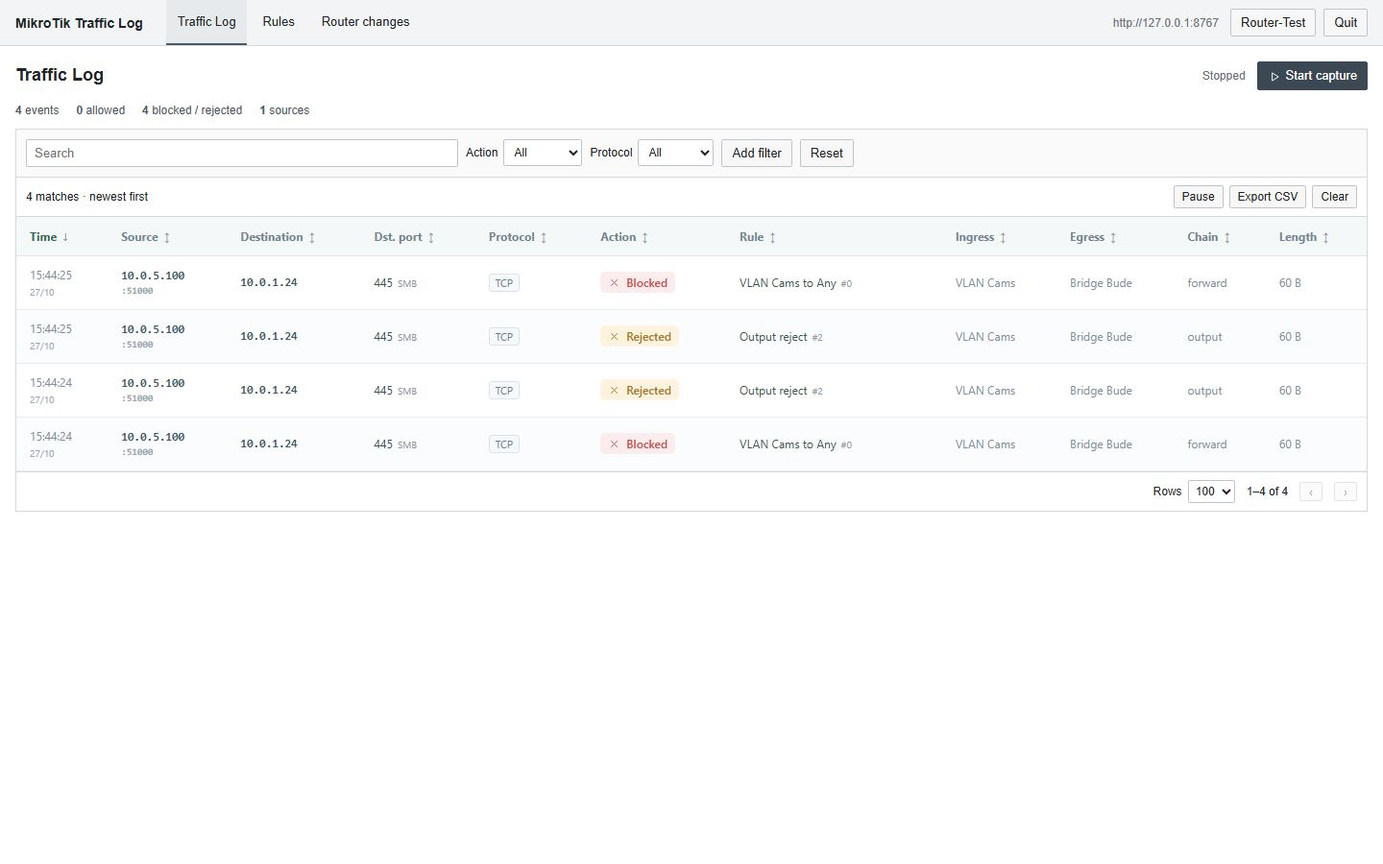
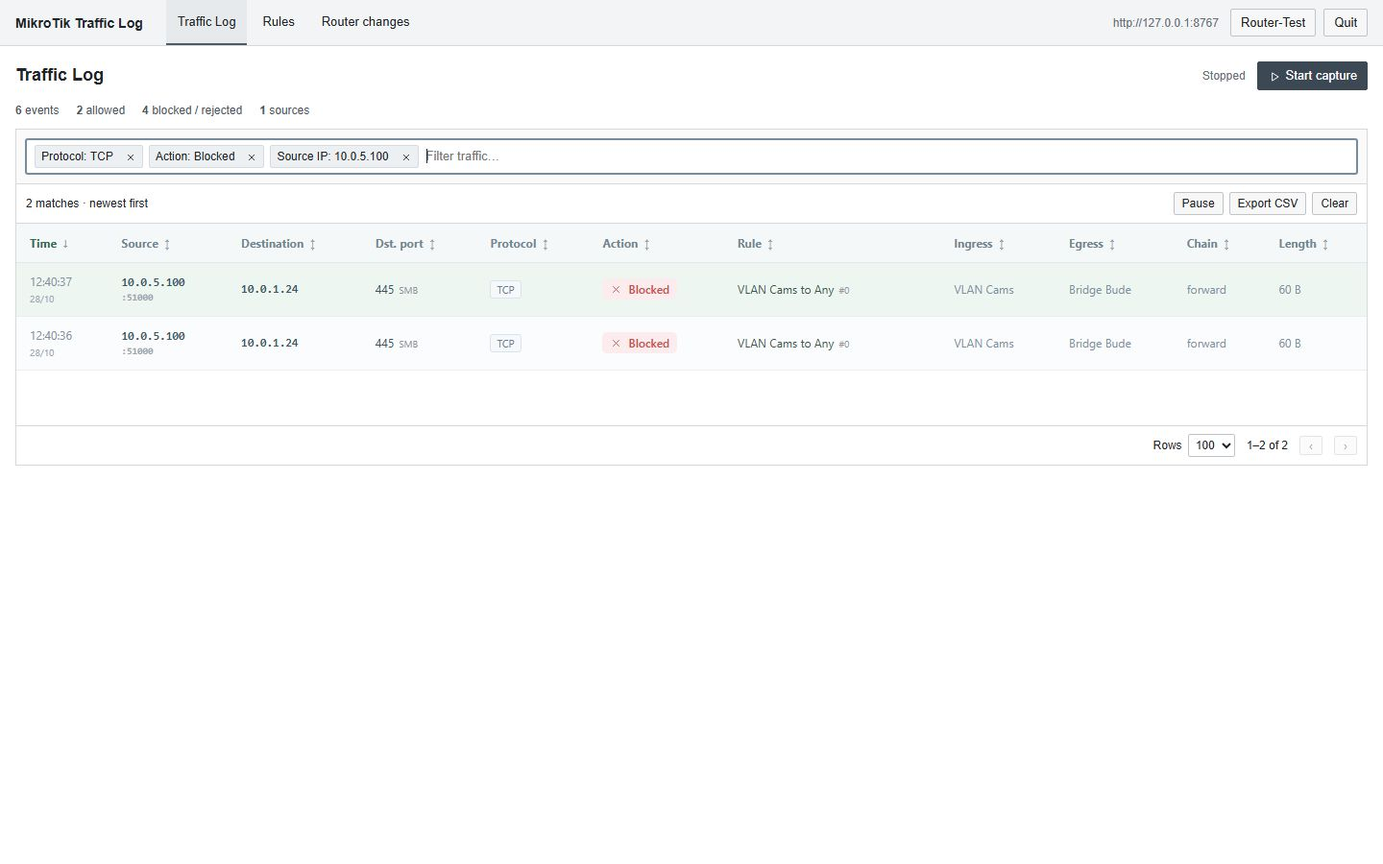
Restore unified traffic filters and clarify rule selection

diff --git a/trafficlog/web/app.js b/trafficlog/web/app.js
@@ -1,13 +1,12 @@
-"use strict";
+import {actions,fields,ipNumber,compileFilter,normalizeFilterValue,formatFilterValue,parseFilterInput} from "./filters.mjs";
 
 const $ = (id) => document.getElementById(id);
 const esc = (value) => String(value ?? "").replace(/[&<>"']/g, c => ({"&":"&amp;","<":"&lt;",">":"&gt;",'"':"&quot;","'":"&#39;"}[c]));
 const icon = name => `<svg aria-hidden="true"><use href="#i-${name}"/></svg>`;
-const actions = {accept:"Allowed", drop:"Blocked", reject:"Rejected"};
 const services = {20:"FTP",21:"FTP",22:"SSH",25:"SMTP",53:"DNS",67:"DHCP",68:"DHCP",80:"HTTP",123:"NTP",161:"SNMP",179:"BGP",443:"HTTPS",445:"SMB",3389:"RDP",8000:"HTTP",8291:"WinBox"};
-const fields = {source:"Source IP",destination:"Destination IP",destination_port:"Dst. port",source_port:"Source port",rule_name:"Rule",input:"Ingress",output:"Egress",chain:"Chain"};
-const state = {token:"",router:null,rules:[],knownRules:new Set(),selected:new Set(),events:[],sequence:0,session:null,view:"traffic",filters:[],search:"",action:"",protocol:"",sort:"received",descending:true,page:0,pageSize:100,paused:false,pausedEvents:null,detail:null,closed:false,lastRuleSignature:""};
+const state = {token:"",router:null,rules:[],knownRules:new Set(),selected:new Set(),events:[],sequence:0,session:null,view:"traffic",filters:[],search:"",sort:"received",descending:true,page:0,pageSize:100,paused:false,pausedEvents:null,detail:null,closed:false,lastRuleSignature:""};
 let toastTimer, pollBusy = false, previewVersion = 0, previewPlan = null;
+let suggestions=[], activeSuggestion=-1, editingFilter=null;
 
 function toast(message) {
   $("toast").textContent = message;
@@ -49,7 +48,8 @@ function consume(data) {
   if (key !== oldKey) {
     state.selected.clear(); state.knownRules.clear(); state.events = []; state.detail = null;
     $("detail-drawer").classList.add("hidden");
-    state.filters = []; state.page = 0; setPaused(false);
+    if(oldKey){state.filters=[];state.search="";$("search").value="";editingFilter=null;closeSuggestions();}
+    state.page=0;setPaused(false);
   }
   state.router = data.router; state.session = data.session;
   state.rules = data.rules || [];
@@ -118,46 +118,11 @@ function renderStatus() {
   $("pause-button").disabled = !state.events.length;
 }
 
-function ipNumber(ip) {
-  const parts = ip.split(".");
-  if (parts.length !== 4 || parts.some(p => !/^\d{1,3}$/.test(p) || Number(p)>255)) throw new Error("Enter a valid IPv4 address or CIDR network.");
-  return parts.reduce((n,p) => (n * 256 + Number(p)) >>> 0, 0);
-}
-
-function compileFilter(field, value) {
-  const values = value.split(",").map(s => s.trim()).filter(Boolean);
-  if (!values.length) throw new Error("Enter a filter value.");
-  if (field === "source" || field === "destination") {
-    const nets = values.map(v => {
-      const parts = v.split("/");
-      if (parts.length>2 || (parts.length===2 && !/^\d+$/.test(parts[1]))) throw new Error("Invalid IPv4 network.");
-      const bits = parts.length===2 ? Number(parts[1]) : 32;
-      if (bits<0 || bits>32) throw new Error("Prefix length must be between /0 and /32.");
-      const mask = bits===0 ? 0 : (0xffffffff << (32-bits)) >>> 0;
-      return {network:(ipNumber(parts[0]) & mask) >>> 0,mask};
-    });
-    return e => nets.some(n => { try {return ((ipNumber(e[field]) & n.mask) >>> 0) === n.network;} catch {return false;} });
-  }
-  if (field.endsWith("_port")) {
-    const ranges = values.map(v => {
-      if (!/^\d+(?:-\d+)?$/.test(v)) throw new Error("Enter a port, range or comma-separated list.");
-      const [a,b] = v.split("-").map(Number), end = b ?? a;
-      if (a<0 || end>65535 || end<a) throw new Error("Port range must be between 0 and 65535.");
-      return [a,end];
-    });
-    return e => e[field] != null && ranges.some(([a,b]) => Number(e[field])>=a && Number(e[field])<=b);
-  }
-  return e => values.some(v => String(e[field] || "").toLocaleLowerCase().includes(v.toLocaleLowerCase()));
-}
-
 function filteredEvents() {
-  const search = state.search.trim().toLowerCase();
-  const events = state.paused ? state.pausedEvents : state.events;
-  const predicates = state.filters.map(f => compileFilter(f.field, f.value));
-  const result = events.filter(e => (!state.action || e.action===state.action)
-    && (!state.protocol || e.protocol===state.protocol)
-    && predicates.every(test => test(e))
-    && (!search || [e.source,e.destination,e.source_port,e.destination_port,e.rule_name,e.protocol,e.input,e.output,e.chain,actions[e.action]].join(" ").toLowerCase().includes(search)));
+  const events=state.paused?state.pausedEvents:state.events;
+  const predicates=state.filters.map(f=>compileFilter(f.field,f.value));
+  if(state.search.trim())predicates.push(compileFilter("text",state.search));
+  const result=events.filter(e=>predicates.every(test=>test(e)));
   result.sort((a,b) => {
     let av=a[state.sort] ?? "",bv=b[state.sort] ?? "", comparison;
     if (["source","destination"].includes(state.sort)) {try {av=ipNumber(av);bv=ipNumber(bv);} catch {}}
@@ -186,7 +151,7 @@ function renderTraffic() {
   const rows = filteredEvents();
   state.page = Math.min(state.page, Math.max(0, Math.ceil(rows.length/state.pageSize)-1));
   const start = state.page*state.pageSize, page = rows.slice(start,start+state.pageSize);
-  $("traffic-body").innerHTML = page.map(e => `<tr data-event="${e.sequence}" class="${state.detail?.sequence===e.sequence ? "selected" : ""}" tabindex="0" aria-label="Event ${esc(e.source)} nach ${esc(e.destination)}">
+  $("traffic-body").innerHTML = page.map(e => `<tr data-event="${e.sequence}" class="${state.detail?.sequence===e.sequence ? "selected" : ""}" tabindex="0" aria-label="Event ${esc(e.source)} to ${esc(e.destination)}">
     <td class="time" title="Received: ${esc(e.received)}">${displayTime(e)}<span class="subline">${esc(new Date(e.received).toLocaleDateString("en-GB", {day:"2-digit",month:"2-digit"}))}</span></td>
     <td class="ip"><button class="cell-link" data-filter-field="source" data-value="${esc(e.source)}">${esc(e.source)}</button><span class="subline">${e.source_port ? ":"+e.source_port : "—"}</span></td>
     <td class="ip"><button class="cell-link" data-filter-field="destination" data-value="${esc(e.destination)}">${esc(e.destination)}</button></td>
@@ -207,23 +172,23 @@ function renderTraffic() {
   $("previous-page").disabled = state.page===0;
   $("next-page").disabled = start+state.pageSize >= rows.length;
   $("filter-chips").classList.toggle("hidden", !state.filters.length);
-  $("filter-chips").innerHTML = state.filters.map((f,i) => `<span class="filter-chip">${esc(fields[f.field])}: <strong>${esc(f.value)}</strong><button data-remove-filter="${i}" aria-label="Remove filter">${icon("x")}</button></span>`).join("");
+  $("filter-chips").innerHTML=state.filters.map(renderFilterChip).join("");
   document.querySelectorAll("th[data-sort]").forEach(th => {
     th.classList.toggle("sorted", th.dataset.sort===state.sort);
     th.querySelector("span").textContent = th.dataset.sort===state.sort ? (state.descending ? "↓" : "↑") : "↕";
   });
 }
 
-function addFilter(field, value) {
-  compileFilter(field,value);
-  if (!state.filters.some(f => f.field===field && f.value===value)) state.filters.push({field,value});
-  state.page=0; renderTraffic();
+function addFilter(field,value,index=null) {
+  value=normalizeFilterValue(field,value);compileFilter(field,value);
+  const filter={field,value};
+  if(index!==null)state.filters.splice(index,1);
+  if(!state.filters.some(f=>f.field===field&&f.value===value))state.filters.push(filter);
+  state.page=0;renderTraffic();
 }
 
 function resetFilters() {
-  state.filters=[]; state.search=""; state.action=""; state.protocol=""; state.page=0;
-  $("search").value=""; $("action-filter").value=""; $("protocol-filter").value="";
-  renderTraffic();
+  state.filters=[];state.page=0;cancelFilterInput();
 }
 
 function renderRules() {
@@ -255,15 +220,85 @@ function openDetails(event) {
   $("detail-drawer").classList.remove("hidden");
 }
 
-function updateFilterEditor() {
-  const field=$("filter-field").value;
-  const ips = ["source","destination"].includes(field), ports=field.endsWith("_port");
-  $("filter-value").placeholder = ips ? "10.0.1.24 or 10.0.1.0/24" : ports ? "443 or 80,443 or 8000-8100" : "Enter or select a value";
-  $("filter-help").textContent = ips ? "IPv4/CIDR · comma-separated" : ports ? "80,443 · 8000-8100" : "";
-  const values = [...new Set(state.events.map(e=>e[field]).filter(v=>v!==null && v!==undefined && v!==""))].slice(0,150);
-  $("filter-values").innerHTML = values.map(v=>`<option value="${esc(v)}"></option>`).join("");
+function renderFilterChip(filter,index){
+  return '<span class="filter-chip'+(editingFilter===index?' editing':'')+'"><button type="button" data-edit-filter="'+index+'">'+esc(fields[filter.field])+': <strong>'+esc(formatFilterValue(filter.field,filter.value))+'</strong></button><button type="button" data-remove-filter="'+index+'" aria-label="Remove '+esc(fields[filter.field])+' filter">'+icon("x")+'</button></span>';
 }
 
+function closeSuggestions(){
+  $("filter-suggestions").classList.add("hidden");
+  $("search").setAttribute("aria-expanded","false");
+  $("search").removeAttribute("aria-activedescendant");
+  activeSuggestion=-1;
+}
+
+function filterSuggestions(){
+  const input=$("search").value,parsed=parseFilterInput(input);
+  if(parsed){
+    let values=parsed.field==="action"?Object.keys(actions):parsed.field==="protocol"?["TCP","UDP","ICMP","ICMPV6"]:[];
+    values=[...new Set([...values,...state.events.map(e=>e[parsed.field]).filter(v=>v!==null&&v!==undefined&&v!=="").map(String)])];
+    const term=parsed.value.toLowerCase();
+    return values.filter(v=>v.toLowerCase().includes(term)||formatFilterValue(parsed.field,v).toLowerCase().includes(term))
+      .slice(0,12).map(value=>({type:"value",field:parsed.field,value,label:formatFilterValue(parsed.field,value)}));
+  }
+  const term=input.trim().toLowerCase();
+  const rows=Object.entries(fields).filter(([field,label])=>field!=="text"&&(!term||label.toLowerCase().includes(term)||field.includes(term)))
+    .map(([field,label])=>({type:"field",field,label}));
+  if(term)rows.push({type:"search",field:"text",value:input.trim(),label:'Search: '+input.trim()});
+  return rows;
+}
+
+function renderSuggestions(){
+  suggestions=filterSuggestions();
+  activeSuggestion=-1;
+  $("filter-suggestions").innerHTML=suggestions.map((item,index)=>'<button type="button" role="option" aria-selected="false" id="filter-option-'+index+'" data-suggestion="'+index+'">'+esc(item.label)+'</button>').join("");
+  $("filter-suggestions").classList.toggle("hidden",!suggestions.length);
+  $("search").setAttribute("aria-expanded",String(!!suggestions.length));
+  $("search").removeAttribute("aria-activedescendant");
+}
+
+function chooseSuggestion(index){
+  const item=suggestions[index];
+  if(!item)return;
+  if(item.type==="field"){
+    $("search").value=fields[item.field]+": ";
+    state.search="";
+    errorBox("filter-error","");
+    renderTraffic();renderSuggestions();$("search").focus();
+  }else commitFilter(item.field,item.value);
+}
+
+function commitFilter(field,value){
+  try{
+    addFilter(field,value,editingFilter);
+    editingFilter=null;state.search="";$("search").value="";
+    errorBox("filter-error","");closeSuggestions();renderTraffic();$("search").focus();
+  }catch(err){errorBox("filter-error",err.message);}
+}
+
+function commitFilterInput(){
+  const input=$("search").value.trim();
+  if(!input)return;
+  const parsed=parseFilterInput(input);
+  if(parsed)commitFilter(parsed.field,parsed.value);
+  else commitFilter("text",input);
+}
+
+function cancelFilterInput(){
+  editingFilter=null;state.search="";$("search").value="";
+  errorBox("filter-error","");closeSuggestions();renderTraffic();
+}
+
+function moveSuggestion(direction){
+  if($("filter-suggestions").classList.contains("hidden"))renderSuggestions();
+  if(!suggestions.length)return;
+  activeSuggestion=activeSuggestion<0?(direction>0?0:suggestions.length-1):(activeSuggestion+direction+suggestions.length)%suggestions.length;
+  $("filter-suggestions").querySelectorAll("[role=option]").forEach((option,index)=>{
+    option.setAttribute("aria-selected",String(index===activeSuggestion));
+  });
+  const option=$("filter-option-"+activeSuggestion);
+  $("search").setAttribute("aria-activedescendant",option.id);
+  option.scrollIntoView({block:"nearest"});
+}
 function exportCSV() {
   const rows=filteredEvents();
   if (!rows.length) return toast("No matching events to export.");
@@ -363,14 +398,38 @@ $("capture-form").onsubmit=async e=>{
 for(const id of ["capture-mode","capture-minutes","capture-source"])$(id).onchange=refreshPreview;
 $("edit-selection").onclick=()=>{closeDialog("capture-dialog");showView("rules");};
 $("empty-connect").onclick=()=>state.events.length ? resetFilters() : state.router ? openCapture() : openConnection();
-$("search").oninput=e=>{state.search=e.target.value;state.page=0;renderTraffic();};
-$("action-filter").onchange=e=>{state.action=e.target.value;state.page=0;renderTraffic();};
-$("protocol-filter").onchange=e=>{state.protocol=e.target.value;state.page=0;renderTraffic();};
-$("reset-filters").onclick=resetFilters;
-$("add-filter").onclick=()=>{errorBox("filter-error","");$("filter-value").value="";updateFilterEditor();openDialog("filter-dialog");};
-$("filter-field").onchange=updateFilterEditor;
-$("filter-form").onsubmit=e=>{e.preventDefault();try{addFilter($("filter-field").value,$("filter-value").value.trim());closeDialog("filter-dialog");}catch(err){errorBox("filter-error",err.message);}};
-$("filter-chips").onclick=e=>{const b=e.target.closest("[data-remove-filter]");if(b){state.filters.splice(Number(b.dataset.removeFilter),1);state.page=0;renderTraffic();}};
+$("filter-form").onsubmit=e=>{e.preventDefault();commitFilterInput();};
+$("search").onfocus=renderSuggestions;
+$("search").onclick=renderSuggestions;
+$("search").oninput=()=>{
+  errorBox("filter-error","");
+  state.search=parseFilterInput($("search").value)?"":$("search").value;
+  state.page=0;renderTraffic();renderSuggestions();
+};
+$("search").onkeydown=e=>{
+  if(e.key==="ArrowDown"||e.key==="ArrowUp"){e.preventDefault();moveSuggestion(e.key==="ArrowDown"?1:-1);}
+  else if(e.key==="Enter"){e.preventDefault();if(activeSuggestion>=0)chooseSuggestion(activeSuggestion);else commitFilterInput();}
+  else if(e.key==="Escape"){e.preventDefault();e.stopPropagation();cancelFilterInput();}
+  else if(e.key==="Backspace"&&!$("search").value&&editingFilter===null&&state.filters.length){
+    state.filters.pop();state.page=0;renderTraffic();
+  }
+};
+$("filter-suggestions").onpointerdown=e=>e.preventDefault();
+$("filter-suggestions").onclick=e=>{const option=e.target.closest("[data-suggestion]");if(option)chooseSuggestion(Number(option.dataset.suggestion));};
+$("filter-chips").onclick=e=>{
+  const remove=e.target.closest("[data-remove-filter]"),edit=e.target.closest("[data-edit-filter]");
+  if(remove){
+    const index=Number(remove.dataset.removeFilter);state.filters.splice(index,1);
+    if(editingFilter===index)cancelFilterInput();else if(editingFilter!==null&&editingFilter>index)editingFilter--;
+    state.page=0;renderTraffic();$("search").focus();
+  }else if(edit){
+    editingFilter=Number(edit.dataset.editFilter);const filter=state.filters[editingFilter];
+    $("search").value=fields[filter.field]+": "+formatFilterValue(filter.field,filter.value);
+    state.search="";errorBox("filter-error","");renderTraffic();$("search").focus();renderSuggestions();
+  }
+};
+$("filter-bar").onclick=e=>{if(e.target===$("filter-bar")||e.target===$("filter-chips"))$("search").focus();};
+document.addEventListener("pointerdown",e=>{if(!$("filter-form").contains(e.target))closeSuggestions();});
 $("pause-button").onclick=()=>{
   setPaused(!state.paused);renderTraffic();
 };

diff --git a/trafficlog/web/styles.css b/trafficlog/web/styles.css
@@ -1,11 +1,11 @@
 :root{--ink:#202428;--muted:#697078;--line:#d6d9dc;--bg:#fff;--green:#176c39;--red:#b22929;--amber:#8b5c10;font-family:Arial,"Segoe UI",sans-serif;font-size:13px;color:var(--ink)}
 *{box-sizing:border-box}body{margin:0;background:#fff}button,input,select,textarea{font:inherit}button{cursor:pointer;border:1px solid #bfc4c9;background:#f7f7f7;color:inherit;border-radius:2px;padding:6px 10px;white-space:nowrap}button:hover{background:#ebedef}button:disabled{opacity:.45;cursor:default}button.primary{background:#3c4954;border-color:#3c4954;color:#fff}button.stop{color:var(--red);border-color:#cba5a5;background:#fff}button.paused{background:#e4e8eb}input,select,textarea{border:1px solid #bfc4c9;background:white;color:inherit;border-radius:2px;padding:6px 8px}input:focus,select:focus,textarea:focus,button:focus-visible{outline:2px solid #778b9e;outline-offset:1px}svg{width:14px;height:14px;fill:none;stroke:currentColor;stroke-width:1.7;vertical-align:middle}.icon-defs{position:absolute;width:0;height:0;overflow:hidden}.hidden{display:none!important}h1,h2,h3,p{margin-top:0}h1{font-size:18px;font-weight:600;margin-bottom:0}h2{font-size:14px;font-weight:600;margin-bottom:12px}h3{font-size:13px;font-weight:600;margin:0}p{line-height:1.5}small{color:var(--muted)}
 .topbar{display:flex;align-items:center;gap:24px;padding:0 16px;min-height:48px;border-bottom:1px solid var(--line);background:#f3f4f5}.brand{font-size:14px;font-weight:600;white-space:nowrap}nav{display:flex;align-self:stretch;gap:4px}.nav-item{border:0;border-bottom:2px solid transparent;background:none;border-radius:0;padding:0 12px}.nav-item:hover{background:#e8eaec}.nav-item.active{border-bottom-color:#4b5d6b;background:#e7eaec}.top-right{margin-left:auto;display:flex;align-items:center;gap:8px}#sidebar-status{font-size:12px;color:var(--muted);margin-right:4px}main{padding:16px}.page-heading{display:flex;justify-content:space-between;align-items:center;margin-bottom:14px}.heading-actions{display:flex;align-items:center;gap:12px}#capture-status{font-size:12px;color:var(--muted)}#capture-status.live{color:var(--green)}#capture-button svg{margin-right:5px}.summary-strip{display:flex;gap:18px;font-size:12px;margin-bottom:12px;color:#50575e}.summary-strip b{font-weight:600}.notice,.form-error{padding:9px 10px;background:#fff7df;border:1px solid #dacb9e;margin-bottom:12px;font-size:12px;line-height:1.5}.notice.error,.form-error{color:#9b2e28;border-color:#dfb5b2;background:#fff4f3}.form-error{margin-top:12px}
-.traffic-card,.panel{border:1px solid var(--line);background:white}.filterbar{display:flex;align-items:center;flex-wrap:wrap;gap:8px;padding:10px;border-bottom:1px solid var(--line);background:#fafafa}.filterbar>input{min-width:160px;flex:1;max-width:450px}.compact-select{display:flex;align-items:center;gap:6px;font-size:12px}.compact-select select{padding:5px 6px}.table-toolbar{display:flex;align-items:center;justify-content:space-between;gap:12px;padding:8px 10px;font-size:12px;border-bottom:1px solid var(--line)}.table-toolbar>div{display:flex;gap:6px}.table-toolbar button{padding:4px 8px;font-size:12px}.table-scroll{overflow:auto;max-height:calc(100vh - 269px);min-height:210px}table{border-collapse:collapse;width:100%;text-align:left;font-size:12px}th{position:sticky;top:0;background:#f0f1f2;border-bottom:1px solid #bfc4c9;z-index:1;font-size:12px;font-weight:600;white-space:nowrap}th,td{padding:7px 10px;border-bottom:1px solid #e8eaec}th[data-sort]{cursor:pointer}th span{color:#8b9298;margin-left:3px}.traffic-table{min-width:1100px}.traffic-table tbody tr{cursor:pointer}.traffic-table tbody tr:hover,.traffic-table tbody tr.selected{background:#edf2f6}.traffic-table .time{font-variant-numeric:tabular-nums;white-space:nowrap;color:#4d5660}.subline{display:block;font-size:10px;color:#7b8289;margin-top:2px}.ip,.endpoint-value{font-family:Consolas,monospace;white-space:nowrap}.cell-link{border:0;background:none;padding:0;font:inherit;color:inherit;text-align:left}.cell-link:hover{color:#155f9b;background:none;text-decoration:underline}.port{white-space:nowrap}.service-name{color:#8a9096;font-size:10px;margin-left:5px}.protocol-tag{font-size:11px}.action-badge{display:inline-flex;align-items:center;gap:4px;white-space:nowrap;font-size:12px}.action-badge svg{display:none}.action-badge.accept{color:var(--green)}.action-badge.drop{color:var(--red)}.action-badge.reject{color:var(--amber)}.rule-cell{min-width:170px;max-width:310px;overflow-wrap:anywhere}.rule-index{font-size:10px;color:#93999e;margin-left:5px}.interface{white-space:nowrap;color:#626a72;font-size:11px}.empty-state{text-align:center;padding:45px 15px}.empty-state h2{font-weight:400;font-size:13px;color:#7b8289}.empty-state>div{display:flex;justify-content:center;gap:8px}.table-footer{padding:8px 10px;border-top:1px solid var(--line);font-size:12px;display:flex;justify-content:flex-end}.pagination{display:flex;align-items:center;gap:12px}.pagination label{display:flex;gap:6px;align-items:center}.pagination select{padding:3px}.pagination button{padding:2px 9px}.filter-chips{display:flex;flex-wrap:wrap;gap:6px;padding:7px 10px;border-bottom:1px solid var(--line)}.filter-chip{display:inline-flex;align-items:center;gap:5px;background:#edf0f2;border:1px solid #d5dbe0;padding:3px 6px;font-size:12px}.filter-chip strong{font-weight:400}.filter-chip button{border:0;background:none;padding:0;line-height:1}.filter-chip svg{width:12px;height:12px}
+.traffic-card,.panel{border:1px solid var(--line);background:white}.table-toolbar{display:flex;align-items:center;justify-content:space-between;gap:12px;padding:8px 10px;font-size:12px;border-bottom:1px solid var(--line)}.table-toolbar>div{display:flex;gap:6px}.table-toolbar button{padding:4px 8px;font-size:12px}.table-scroll{overflow:auto;max-height:calc(100vh - 269px);min-height:210px}table{border-collapse:collapse;width:100%;text-align:left;font-size:12px}th{position:sticky;top:0;background:#f0f1f2;border-bottom:1px solid #bfc4c9;z-index:1;font-size:12px;font-weight:600;white-space:nowrap}th,td{padding:7px 10px;border-bottom:1px solid #e8eaec}th[data-sort]{cursor:pointer}th span{color:#8b9298;margin-left:3px}.traffic-table{min-width:1100px}.traffic-table tbody tr{cursor:pointer}.traffic-table tbody tr:hover,.traffic-table tbody tr.selected{background:#edf2f6}.traffic-table .time{font-variant-numeric:tabular-nums;white-space:nowrap;color:#4d5660}.subline{display:block;font-size:10px;color:#7b8289;margin-top:2px}.ip,.endpoint-value{font-family:Consolas,monospace;white-space:nowrap}.cell-link{border:0;background:none;padding:0;font:inherit;color:inherit;text-align:left}.cell-link:hover{color:#155f9b;background:none;text-decoration:underline}.port{white-space:nowrap}.service-name{color:#8a9096;font-size:10px;margin-left:5px}.protocol-tag{font-size:11px}.action-badge{display:inline-flex;align-items:center;gap:4px;white-space:nowrap;font-size:12px}.action-badge svg{display:none}.action-badge.accept{color:var(--green)}.action-badge.drop{color:var(--red)}.action-badge.reject{color:var(--amber)}.rule-cell{min-width:170px;max-width:310px;overflow-wrap:anywhere}.rule-index{font-size:10px;color:#93999e;margin-left:5px}.interface{white-space:nowrap;color:#626a72;font-size:11px}.empty-state{text-align:center;padding:45px 15px}.empty-state h2{font-weight:400;font-size:13px;color:#7b8289}.empty-state>div{display:flex;justify-content:center;gap:8px}.table-footer{padding:8px 10px;border-top:1px solid var(--line);font-size:12px;display:flex;justify-content:flex-end}.pagination{display:flex;align-items:center;gap:12px}.pagination label{display:flex;gap:6px;align-items:center}.pagination select{padding:3px}.pagination button{padding:2px 9px}
 .rule-toolbar{display:flex;gap:8px;align-items:center;margin-bottom:12px;flex-wrap:wrap}.rule-toolbar input{width:300px}.rule-toolbar #refresh-rules{margin-left:auto}#selection-count{color:var(--muted);font-size:12px}.rules-table-scroll{overflow:auto;max-height:calc(100vh - 157px)}.rules-table{min-width:850px}.rules-table td{padding-top:9px;padding-bottom:9px}.rules-table input[type=checkbox]{margin:0;accent-color:#4d606e}.ineligible{color:#93999e}.small-empty{padding:25px;text-align:center;color:var(--muted)}.session-grid{display:grid;grid-template-columns:1fr;gap:12px;margin-bottom:12px}.panel{padding:14px;margin-bottom:12px}.session-grid .panel{margin-bottom:0}.section-heading,.drawer-heading,.dialog-heading{display:flex;align-items:center;justify-content:space-between;gap:12px;margin-bottom:10px}.section-heading h2,.drawer-heading h2,.dialog-heading h2{margin:0}.section-heading button{padding:4px 8px;font-size:12px}dl{display:grid;grid-template-columns:170px 1fr;gap:8px;margin:0 0 12px;font-size:12px}dt{color:#707880}dd{margin:0;overflow-wrap:anywhere}pre,textarea.script{font:12px/1.5 Consolas,monospace;background:#f8f9fa;border:1px solid #d6d9dc;padding:10px;margin:0;white-space:pre;overflow:auto}.script{display:block;width:100%;resize:vertical;min-height:70px}.script-panel{margin-bottom:12px}.script-panel p{font-size:12px}.orphan-session{border-top:1px solid var(--line);padding-top:12px;margin-top:12px}.orphan-session textarea{margin-top:8px}
 dialog{padding:18px;width:480px;max-width:calc(100vw - 24px);max-height:calc(100vh - 30px);border:1px solid #9ca5ac;border-radius:2px;overflow:auto}dialog::backdrop{background:#0005}.wide-dialog{width:880px}.dialog-heading{margin-bottom:18px}.dialog-heading h2{font-size:16px}.close-button{border:0;background:none;font-size:22px;line-height:1;padding:0 4px;color:#777}.close-button:hover{background:#eee}dialog label:not(.check-label){display:block;margin-bottom:12px;font-size:12px}dialog label>input:not([type=checkbox]),dialog label>select{display:block;width:100%;margin-top:5px}.form-grid{display:grid;grid-template-columns:1fr 1fr;gap:12px}.check-label{display:flex;align-items:center;gap:6px;margin:8px 0;font-size:12px}.check-label input{margin:0}.dialog-footer{display:flex;justify-content:flex-end;gap:8px;margin-top:18px;padding-top:12px;border-top:1px solid var(--line)}#capture-plan-summary{font-size:12px;margin:12px 0}#capture-form textarea{margin-bottom:12px}.help-text{font-size:12px;color:var(--muted);margin-bottom:0}
 .detail-drawer{position:fixed;right:0;top:48px;bottom:0;width:410px;max-width:95vw;background:white;border-left:1px solid #aeb6bd;z-index:3;padding:16px;overflow:auto}.drawer-heading{padding-bottom:12px;border-bottom:1px solid var(--line);margin-bottom:16px}.detail-drawer dl{grid-template-columns:125px 1fr;line-height:1.5;margin-top:18px}.endpoints{margin-top:16px;display:flex;flex-direction:column;gap:10px;border-bottom:1px solid var(--line);padding-bottom:14px}.endpoint-label{color:#7d858c;font-size:10px;margin-bottom:4px}.endpoint-value{font-size:14px}.detail-filter{border:0;background:none;padding:5px 0;font-size:11px;color:#36688c}.detail-drawer details{font-size:12px}.detail-drawer pre{white-space:pre-wrap;overflow-wrap:anywhere;margin-top:10px;font-size:11px}.toast{position:fixed;bottom:16px;left:50%;transform:translateX(-50%);padding:10px 16px;background:#353b40;color:#fff;border-radius:2px;z-index:10;max-width:90vw;font-size:12px}
-@media(max-width:850px){.topbar{flex-wrap:wrap;gap:8px;padding:8px 12px}.brand{margin-right:12px}nav{min-height:30px}.nav-item{padding:0 8px}.top-right{margin-left:0;width:100%}#sidebar-status{margin-right:auto}main{padding:12px}.session-grid{grid-template-columns:1fr}.table-scroll{max-height:calc(100vh - 330px)}.summary-strip{gap:12px;flex-wrap:wrap}.detail-drawer{top:0}.filterbar>input{max-width:none}.table-toolbar{align-items:flex-start}.table-toolbar>div{flex-wrap:wrap;justify-content:flex-end}}@media(max-width:480px){.form-grid{grid-template-columns:1fr;gap:0}.topbar{font-size:12px}.brand{display:none}.summary-strip{font-size:11px}.compact-select{font-size:11px}.filterbar{gap:6px}.table-toolbar{flex-wrap:wrap}.table-toolbar>div{justify-content:flex-start}.pagination{gap:8px}}
+@media(max-width:850px){.topbar{flex-wrap:wrap;gap:8px;padding:8px 12px}.brand{margin-right:12px}nav{min-height:30px}.nav-item{padding:0 8px}.top-right{margin-left:0;width:100%}#sidebar-status{margin-right:auto}main{padding:12px}.session-grid{grid-template-columns:1fr}.table-scroll{max-height:calc(100vh - 330px)}.summary-strip{gap:12px;flex-wrap:wrap}.detail-drawer{top:0}.table-toolbar{align-items:flex-start}.table-toolbar>div{flex-wrap:wrap;justify-content:flex-end}}@media(max-width:480px){.form-grid{grid-template-columns:1fr;gap:0}.topbar{font-size:12px}.brand{display:none}.summary-strip{font-size:11px}.table-toolbar{flex-wrap:wrap}.table-toolbar>div{justify-content:flex-start}.pagination{gap:8px}}
 
 
 .traffic-table{font-family:"Segoe UI",Arial,sans-serif;font-size:12px;color:#3c535e}
@@ -25,3 +25,19 @@ dialog{padding:18px;width:480px;max-width:calc(100vw - 24px);max-height:calc(100
 .action-badge.accept{background:#e9f5ee;color:#278553}
 .action-badge.drop{background:#fceced;color:#c74e4c}
 .action-badge.reject{background:#fff3df;color:#a87622}
+.filterbar{position:relative;display:block;padding:10px;border-bottom:1px solid var(--line);background:#fafafa}
+.filter-input{display:flex;align-items:center;flex-wrap:wrap;gap:6px;min-height:36px;padding:4px 8px;border:1px solid #bfc4c9;border-radius:2px;background:white;cursor:text}
+.filter-input:focus-within{border-color:#778b9e;box-shadow:0 0 0 1px #778b9e}
+.filter-input>input{flex:1;min-width:180px;border:0;padding:4px 2px;background:transparent;outline:none}
+.filter-input .filter-chips{display:contents}
+.filter-chip{display:inline-flex;align-items:center;border:1px solid #d5dbe0;border-radius:2px;background:#edf0f2;font-size:12px;white-space:nowrap}
+.filter-chip.editing{border-color:#778b9e}
+.filter-chip button{border:0;background:none;padding:4px 6px;font:inherit}
+.filter-chip button:hover{background:#e0e6ea}
+.filter-chip strong{font-weight:500}
+.filter-chip svg{width:12px;height:12px}
+.filter-suggestions{position:absolute;top:calc(100% - 7px);left:10px;z-index:20;width:320px;max-width:calc(100% - 20px);max-height:300px;overflow:auto;border:1px solid #bfc4c9;border-radius:2px;background:white;box-shadow:0 3px 8px #0002;padding:3px}
+.filter-suggestions button{display:block;width:100%;border:0;border-radius:0;padding:8px 10px;background:white;text-align:left;font-size:12px;white-space:normal;overflow-wrap:anywhere}
+.filter-suggestions button:hover,.filter-suggestions button[aria-selected=true]{background:#e8eef2}
+.filter-error{font-size:12px;color:#9b2e28;margin-top:8px}
+.rules-instruction{font-size:13px;color:#50575e;margin:0 0 12px}

diff --git a/trafficlog/web/index.html b/trafficlog/web/index.html
@@ -5,7 +5,7 @@
 <meta name="viewport" content="width=device-width,initial-scale=1">
 <title>MikroTik Traffic Log</title>
 <link rel="stylesheet" href="/styles.css">
-<script src="/app.js" defer></script>
+<script src="/app.js" type="module"></script>
 </head>
 <body>
 <svg class="icon-defs" aria-hidden="true"><defs>
@@ -31,13 +31,14 @@
 <section id="view-traffic" class="view">
 <div class="summary-strip"><span><b id="metric-total">0</b> events</span><span><b id="metric-allow">0</b> allowed</span><span><b id="metric-deny">0</b> blocked / rejected</span><span><b id="metric-sources">0</b> sources</span></div>
 <div class="traffic-card">
-<div class="filterbar">
-<input id="search" aria-label="Search traffic" placeholder="Search">
-<label class="compact-select">Action <select id="action-filter"><option value="">All</option><option value="accept">Allowed</option><option value="drop">Blocked</option><option value="reject">Rejected</option></select></label>
-<label class="compact-select">Protocol <select id="protocol-filter"><option value="">All</option><option>TCP</option><option>UDP</option><option>ICMP</option><option>ICMPV6</option></select></label>
-<button id="add-filter">Add filter</button><button id="reset-filters">Reset</button>
-</div>
+<form id="filter-form" class="filterbar" role="search" autocomplete="off">
+<div class="filter-input" id="filter-bar">
 <div class="filter-chips hidden" id="filter-chips"></div>
+<input id="search" role="combobox" aria-label="Filter traffic" aria-autocomplete="list" aria-haspopup="listbox" aria-expanded="false" aria-controls="filter-suggestions" placeholder="Filter traffic…" spellcheck="false">
+</div>
+<div id="filter-suggestions" class="filter-suggestions hidden" role="listbox" aria-label="Traffic filters"></div>
+<div id="filter-error" class="filter-error hidden" role="alert"></div>
+</form>
 <div class="table-toolbar"><span id="result-label">0 matches</span><div><button id="pause-button" aria-pressed="false"><span>Pause</span></button><button id="export-button">Export CSV</button><button id="clear-button" title="Clear events">Clear</button></div></div>
 <div class="table-scroll"><table class="traffic-table"><thead><tr>
 <th data-sort="received" class="sorted">Time <span>↓</span></th><th data-sort="source">Source <span>↕</span></th><th data-sort="destination">Destination <span>↕</span></th><th data-sort="destination_port">Dst. port <span>↕</span></th><th data-sort="protocol">Protocol <span>↕</span></th><th data-sort="action">Action <span>↕</span></th><th data-sort="rule_name">Rule <span>↕</span></th><th data-sort="input">Ingress <span>↕</span></th><th data-sort="output">Egress <span>↕</span></th><th data-sort="chain">Chain <span>↕</span></th><th data-sort="length">Length <span>↕</span></th>
@@ -49,6 +50,7 @@
 </section>
 
 <section id="view-rules" class="view hidden">
+<p class="rules-instruction">Select rules you want to monitor</p>
 <div class="rule-toolbar"><input id="rule-search" placeholder="Search" aria-label="Search rules"><select id="rule-chain" aria-label="Rule chain"><option value="">All chains</option><option>forward</option><option>input</option><option>output</option></select><button id="select-default">All</button><button id="select-block">Blocked only</button><button id="select-none">None</button><span id="selection-count"></span><button id="refresh-rules">Reload</button></div>
 <div class="panel rules-table-scroll"><table class="rules-table"><thead><tr><th></th><th>#</th><th>Rule</th><th>Action</th><th>Chain</th><th>Source</th><th>Destination</th><th>Status</th></tr></thead><tbody id="rules-body"></tbody></table><div id="rules-empty" class="small-empty">No rules.</div></div>
 </section>
@@ -88,13 +90,6 @@
 <div class="dialog-footer"><button type="button" data-close="capture-dialog">Cancel</button><button type="submit" class="primary" id="capture-submit">Start</button></div>
 </form></dialog>
 
-<dialog id="filter-dialog"><form id="filter-form">
-<div class="dialog-heading"><h2>Add filter</h2><button type="button" class="close-button" data-close="filter-dialog" aria-label="Close">×</button></div>
-<label>Field<select id="filter-field"><option value="source">Source IP</option><option value="destination">Destination IP</option><option value="destination_port">Dst. port</option><option value="source_port">Source port</option><option value="rule_name">Rule</option><option value="input">Ingress</option><option value="output">Egress</option><option value="chain">Chain</option></select></label>
-<label>Value<input id="filter-value" list="filter-values" required><datalist id="filter-values"></datalist></label><p class="help-text" id="filter-help"></p>
-<div id="filter-error" class="form-error hidden"></div>
-<div class="dialog-footer"><button type="button" data-close="filter-dialog">Cancel</button><button type="submit" class="primary">Apply</button></div>
-</form></dialog>
 <aside id="detail-drawer" class="detail-drawer hidden" aria-label="Event details"><div class="drawer-heading"><h2>Traffic details</h2><button id="close-details" class="close-button" aria-label="Close details">×</button></div><div id="detail-content"></div></aside>
 <div id="toast" class="toast hidden" role="status"></div>
 </body>

diff --git a/trafficlog/server.py b/trafficlog/server.py
@@ -257,9 +257,9 @@ class Handler(BaseHTTPRequestHandler):
             except ValueError:
                 return self.reply(400, {"error": "Invalid cursor"})
             return self.reply(200, app.state(since))
-        if path in {"/", "/index.html", "/app.js", "/styles.css"}:
+        if path in {"/", "/index.html", "/app.js", "/filters.mjs", "/styles.css"}:
             file = WEB / ("index.html" if path == "/" else path[1:])
-            mime = {".html": "text/html", ".js": "text/javascript", ".css": "text/css"}[file.suffix]
+            mime = {".html": "text/html", ".js": "text/javascript", ".mjs": "text/javascript", ".css": "text/css"}[file.suffix]
             return self.reply(200, file.read_bytes(), mime + "; charset=utf-8")
         return self.reply(404, {"error": "Not found"})
 
